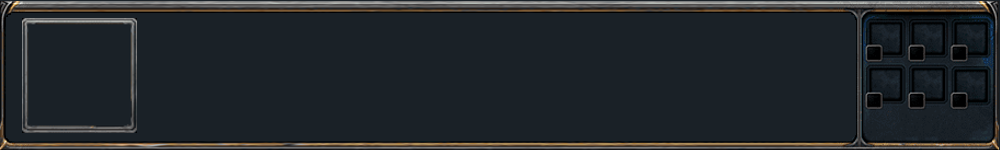
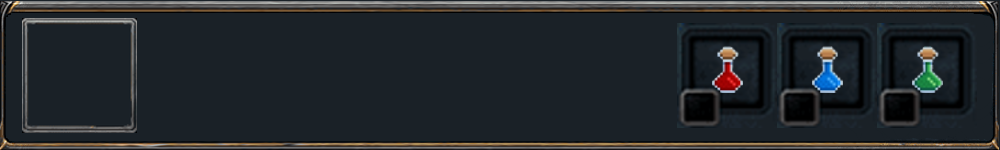
물약 개수

Changed region(s): [[0.682, 0.0533, 1.0, 0.9867]]

diff --git a/main.html b/main.html
@@ -7,7 +7,8 @@
     <link rel="stylesheet" href="./stage2/stage2.css">
     <link rel="stylesheet" href="./stage3/stage3.css">
     <link href="https://fonts.googleapis.com/css2?family=Gugi&display=swap" rel="stylesheet">
-    <link href="https://fonts.googleapis.com/css2?family=Chakra+Petch:ital,wght@1,300&family=Nanum+Gothic&display=swap" rel="stylesheet">
+    <link href="https://fonts.googleapis.com/css2?family=Chakra+Petch:ital,wght@1,300&family=Nanum+Gothic&display=swap"
+        rel="stylesheet">
     <script src="https://code.jquery.com/jquery-3.6.0.min.js"></script>
 </head>
 
@@ -41,39 +42,39 @@
         <!-- 스테이지1 환경설정 -->
         <div id="set1-menu" class="screen">
             <div id="settings"></div><br>
-            <div id="setting-bgMusic" class="setting">
+            <div id="setting-bgMusic1" class="setting">
                 <label>배경음악</label><br>
-                <button id="BGM"></button>
+                <button id="BGM1"></button>
             </div>
-            <div id="setting-effect" class="setting">
+            <div id="setting-effect1" class="setting">
                 <label>효과음</label><br>
-                <button id="effectSound"></button>
+                <button id="effectSound1"></button>
             </div>
             <button class="go-back-btn" id="settings-to-esc1"></button>
         </div>
         <!-- 스테이지2 환경설정 -->
         <div id="set2-menu" class="screen">
             <div id="settings"></div><br>
-            <div id="setting-bgMusic" class="setting">
+            <div id="setting-bgMusic2" class="setting">
                 <label>배경음악</label><br>
-                <button id="BGM"></button>
+                <button id="BGM2"></button>
             </div>
-            <div id="setting-effect" class="setting">
+            <div id="setting-effect2" class="setting">
                 <label>효과음</label><br>
-                <button id="effectSound"></button>
+                <button id="effectSoun2d"></button>
             </div>
             <button class="go-back-btn" id="settings-to-esc2"></button>
         </div>
         <!-- 스테이지3 환경설정 -->
         <div id="set3-menu" class="screen">
             <div id="settings"></div><br>
-            <div id="setting-bgMusic" class="setting">
+            <div id="setting-bgMusic3" class="setting">
                 <label>배경음악</label><br>
-                <button id="BGM"></button>
+                <button id="BGM3"></button>
             </div>
-            <div id="setting-effect" class="setting">
+            <div id="setting-effect3" class="setting">
                 <label>효과음</label><br>
-                <button id="effectSound"></button>
+                <button id="effectSound3"></button>
             </div>
             <button class="go-back-btn" id="settings-to-esc3"></button>
         </div>
@@ -88,31 +89,30 @@
                 <input id="exit1" type="button">
             </div>
             <div id="canvas_screen">
-            <div id="boss_UI1">
-                <div id="boss_img1">
-                    <img class="character" src="./img/stage1/boss.png" width="50px" height="50px">
+                <div id="boss_UI1">
+                    <div id="boss_img1">
+                        <img class="character" src="./img/stage1/boss.png" width="50px" height="50px">
+                    </div>
+                    <div id="boss_bar1">
+                        <div id="container1"></div>
+                        <div id="bp_num1">100%</div>
+                    </div>
                 </div>
-                <div id="boss_bar1">
-                    <div id="container1"></div>
-                    <div id="bp_num1">100%</div>
-                </div>
-            </div>
-    
                 <canvas id="screen1" width="1000" height="600"></canvas>
             </div>
-
             <div id="player_UI1">
                 <div id="player_img1">
                     <img class="character" id="playerImg1" src="./img/player/playerStanding_32x32.gif" width="100px"
                         height="100px">
                 </div>
                 <div id="player_state1">
-                    <div> 
+                    <div>
                         <img src="./img/player/playerHeartFull_25x25.png" class="state1" width="40px" height="40px">
                         <img src="./img/player/playerHeartFull_25x25.png" class="state1" width="40px" height="40px">
                         <img src="./img/player/playerHeartFull_25x25.png" class="state1" width="40px" height="40px">
                         <img src="./img/player/playerHeartFull_25x25.png" class="state1" width="40px" height="40px">
-                        <img src="./img/player/playerHeartFull_25x25.png" class="state1" width="40px" height="40px"></div>
+                        <img src="./img/player/playerHeartFull_25x25.png" class="state1" width="40px" height="40px">
+                    </div>
                     <div id="skill1">
                         <div>
                             <p>Q</p>
@@ -274,7 +274,7 @@
             <br>
             <div class="pThirdRow">
                 <span>10 gold</span>
-                <img src="./img/potion/poiton1.png" alt="물약1" id="potion1" class="potion">
+                <img src="./img/potion/potion1.png" alt="물약1" id="potion1" class="potion">
                 <span>X </span>
                 <span id="p1Num"></span>
             </div>

diff --git a/main.js b/main.js
@@ -7,6 +7,11 @@ $(document).ready(function () {
     var currentGold = 200;
     $(".gold").html(currentGold);
 
+    // 물약 개수 변수
+    var potion1Num = 0;
+    var potion2Num = 0;
+    var potion3Num = 0;
+
     // 현재 배경 img
     var currentIMG = $("#b1").attr("src");
 
@@ -111,7 +116,7 @@ $(document).ready(function () {
                 $("#stage1").addClass("animateContent2").css({ "display": "inline-block" });
             }, 500);
             currentGold=parseInt($(".gold").eq(0).text());
-            stageStart1(currentGold);
+            stageStart1(currentGold, effectOn, potion1Num, potion2Num, potion3Num);
         });
         // 두번째 보스 캔버스
         $("#stgbtn2").click(function() {
@@ -119,7 +124,7 @@ $(document).ready(function () {
                 $("#stage2").addClass("animateContent2").css({ "display": "inline-block" });
             }, 500);
             currentGold=parseInt($(".gold").eq(0).text());
-            stageStart2(currentGold);
+            stageStart2(currentGold, effectOn, potion1Num, potion2Num, potion3Num);
         });
         // 세번째 보스 캔버스
         $("#stgbtn3").click(function() {
@@ -127,7 +132,7 @@ $(document).ready(function () {
                 $("#stage3").addClass("animateContent2").css({ "display": "inline-block" });
             }, 500);
             currentGold=parseInt($(".gold").eq(0).text());
-            stageStart3(currentGold);
+            stageStart3(currentGold, effectOn, potion1Num, potion2Num, potion3Num);
         });
         // 뒤로가기 버튼 클릭 시 스테이지 화면과 메인 메뉴 애니메이션
         $("#stage-to-main").click(function () {
@@ -283,10 +288,7 @@ $(document).ready(function () {
             }
         });
         
-        // 물약 개수 변수
-        var potion1Num = 0;
-        var potion2Num = 0;
-        var potion3Num = 0;
+        
         $("#p1Num").html(potion1Num);
         $("#p2Num").html(potion2Num);
         $("#p3Num").html(potion3Num);
@@ -294,26 +296,41 @@ $(document).ready(function () {
         // 1번 물약 클릭시
         $("#potion1").click(function() {
             currentGold = parseInt($(".gold").eq(0).text());
-            potion1Num++;
-            currentGold -= 10;
-            $("#p1Num").html(potion1Num);
-            $(".gold").html(currentGold);
+            if (currentGold >= 10) {
+                potion1Num++;
+                currentGold -= 10;
+                $("#p1Num").html(potion1Num);
+                $(".gold").html(currentGold);
+            }
+            else {
+                alert("골드가 부족합니다!")
+            }
         });
         // 2번 물약 클릭시
         $("#potion2").click(function() {
             currentGold = parseInt($(".gold").eq(0).text());
-            potion2Num++;
-            currentGold -= 20;
-            $("#p2Num").html(potion2Num);
-            $(".gold").html(currentGold);
+            if (currentGold >= 20) {
+                potion2Num++;
+                currentGold -= 20;
+                $("#p2Num").html(potion2Num);
+                $(".gold").html(currentGold);
+            }
+            else {
+                alert("골드가 부족합니다!")
+            }
         });
         // 3번 물약 클릭시
         $("#potion3").click(function() {
             currentGold = parseInt($(".gold").eq(0).text());
-            potion3Num++;
-            currentGold -= 30;
-            $("#p3Num").html(potion3Num);
-            $(".gold").html(currentGold);
+            if (currentGold >= 30) {
+                potion3Num++;
+                currentGold -= 30;
+                $("#p3Num").html(potion3Num);
+                $(".gold").html(currentGold);
+            }
+            else {
+                alert("골드가 부족합니다!")
+            }
         });
 
         // 뒤로가기
